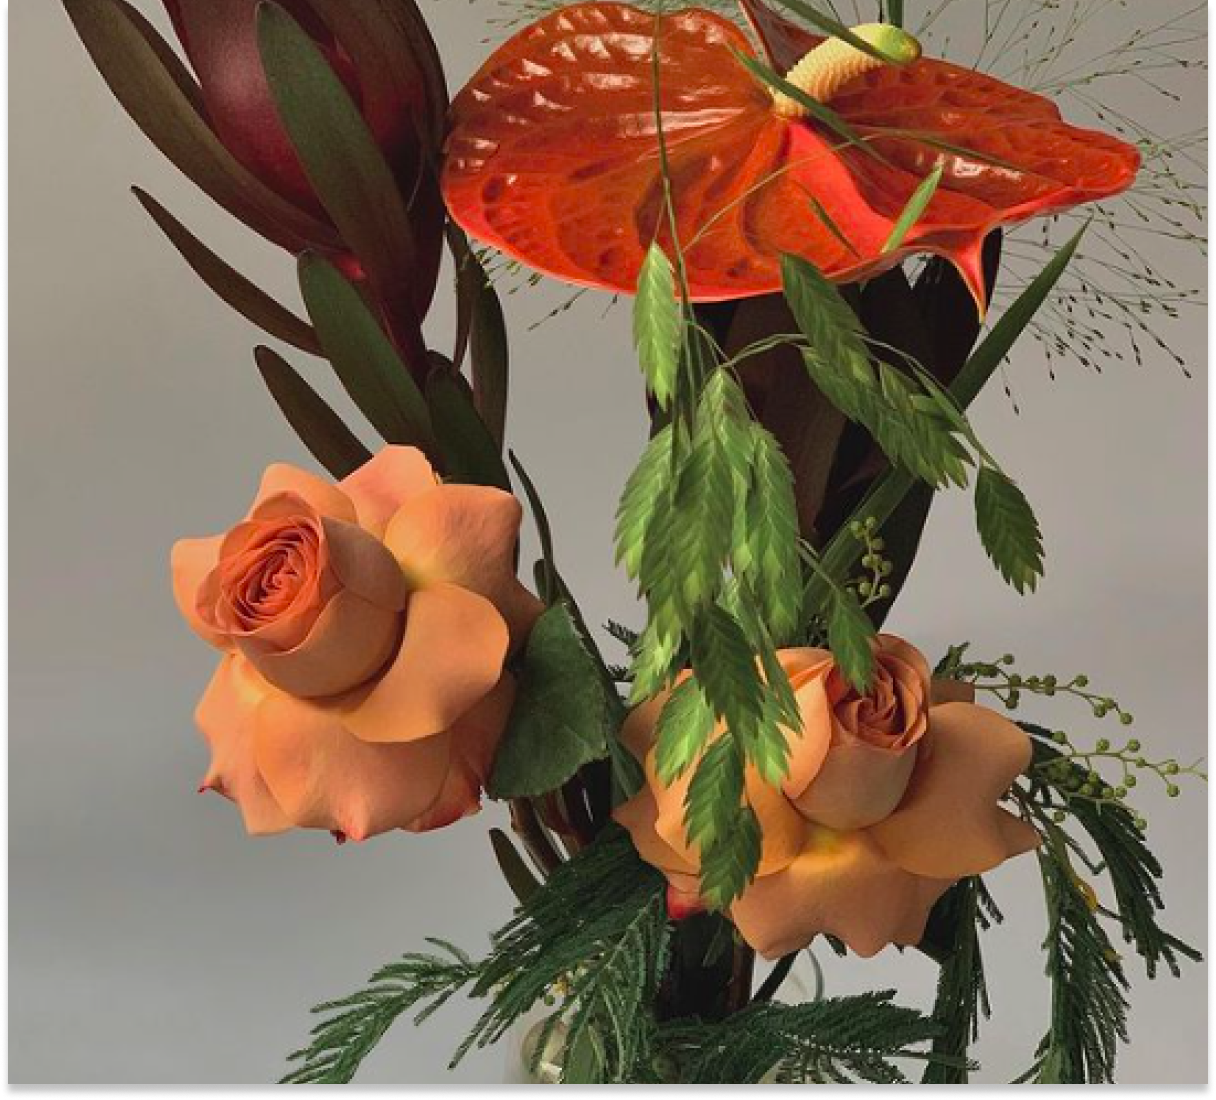
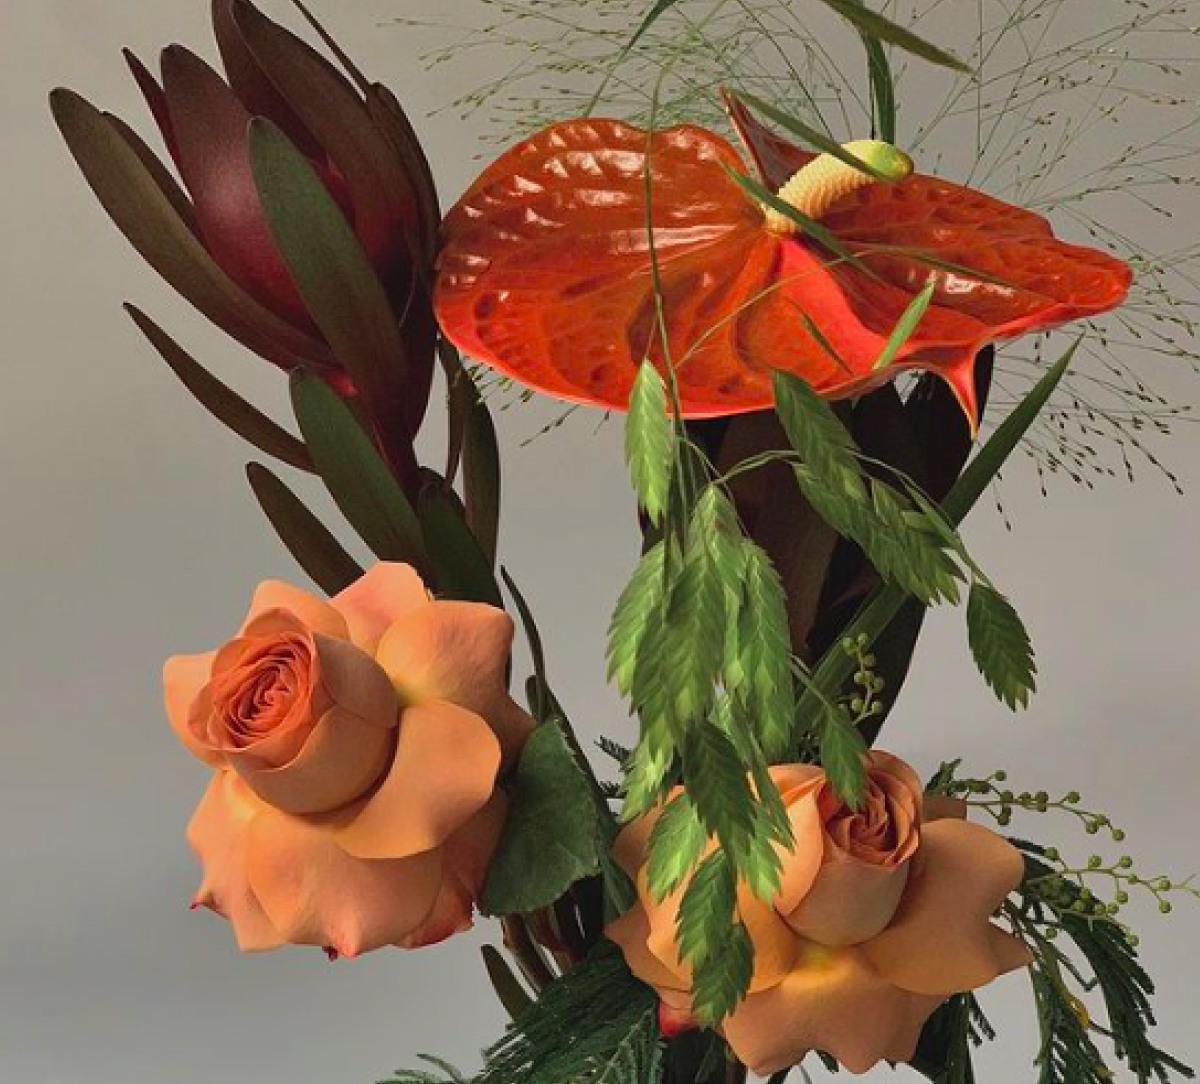
changed img file

diff --git a/src/partials/about.html b/src/partials/about.html
@@ -23,7 +23,7 @@
           srcset="./images/image-about-mobile@2x.png 2x, ./images/image-about-mobile@1x.png 1x"
           type="image/png"
         />
-        <img src="./images/image-about-desktop@1x.png" alt="flowers" />
+        <img src="./images/image-about-mobile@1x.png" alt="flowers" />
       </picture>
     </div>
   </div>
